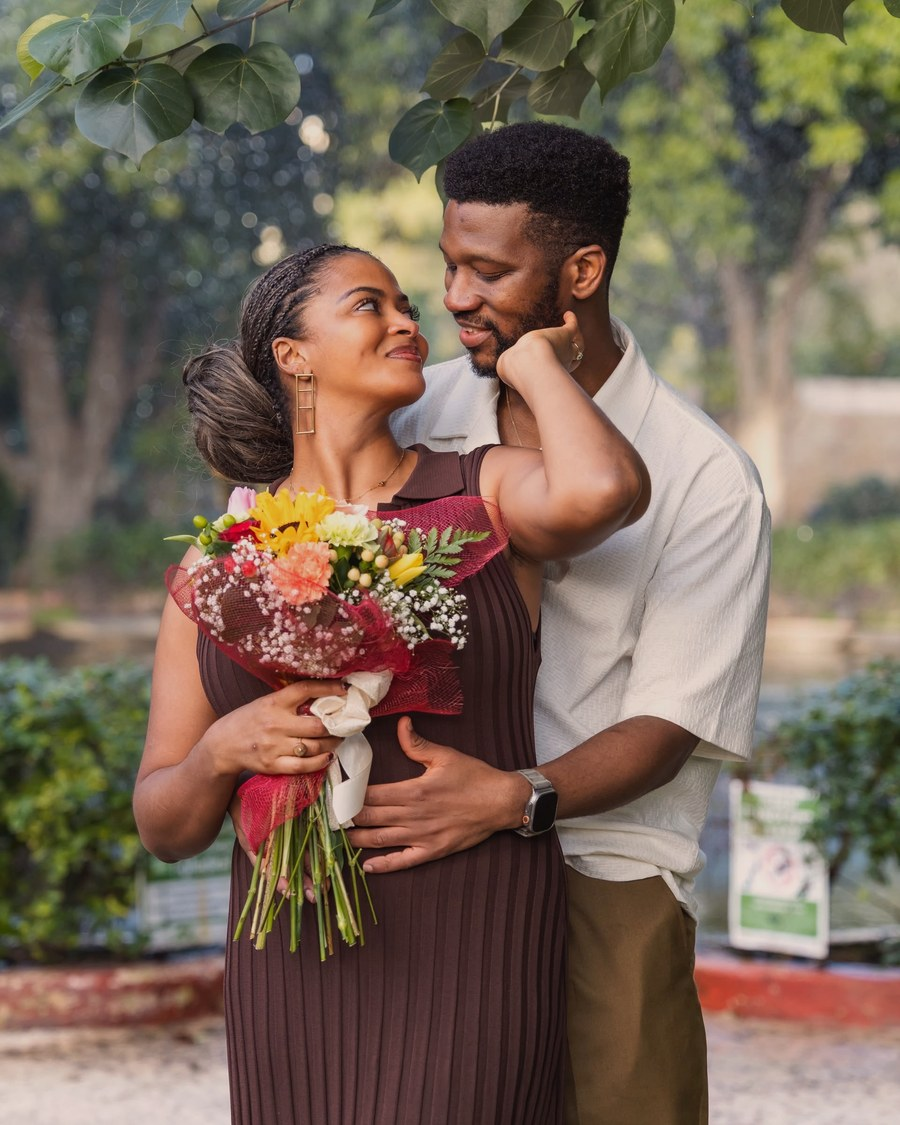
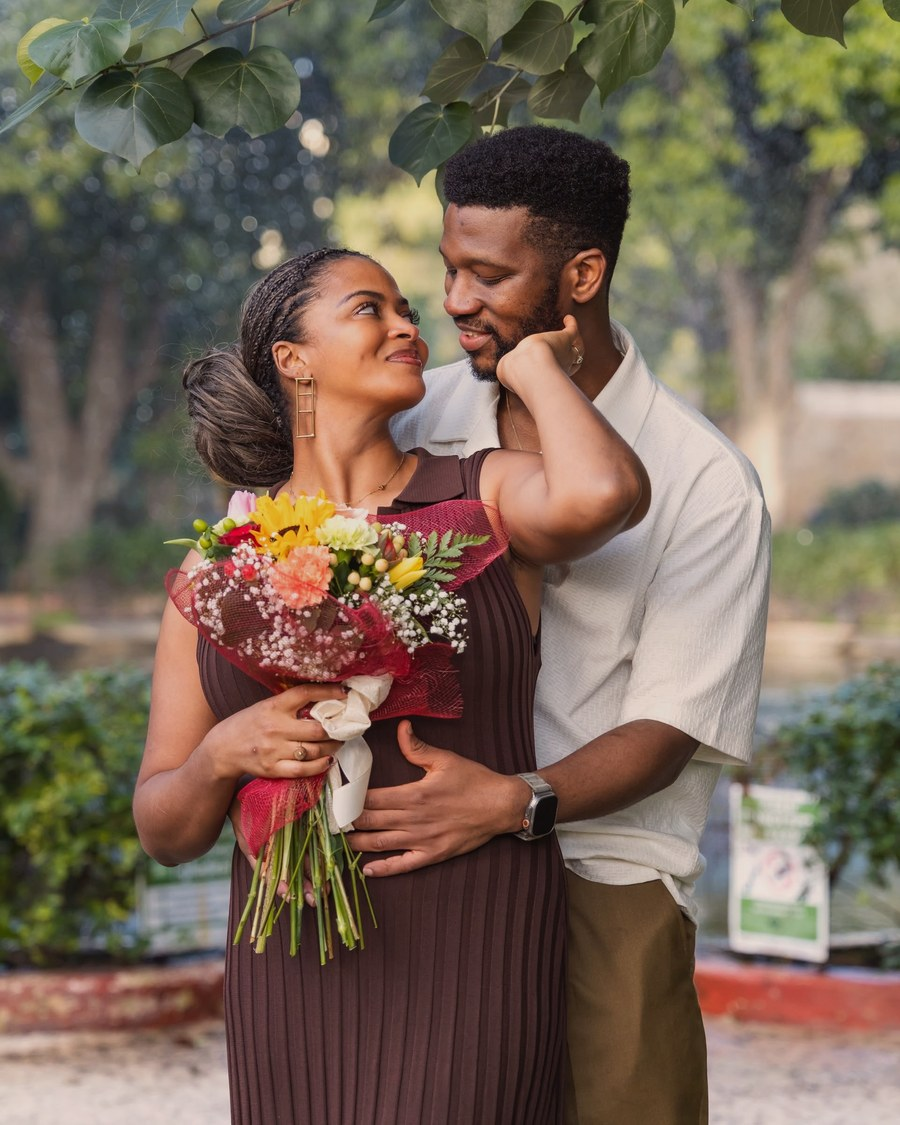
Simplify story to verse with proposal photo and end time
Replace the long story copy with Ecclesiastes 3:11 beside the
proposal portrait, keep the Hello Kelly and Hello Seun stamps,
and close the day timeline at 10:45 pm.

diff --git a/src/App.tsx b/src/App.tsx
@@ -65,7 +65,7 @@ export default function App() {
                 <figure className="story__frame">
                   <img
                     src={site.gatheringImage}
-                    alt="Kelly and Seun in a quiet embrace"
+                    alt="Kelly and Seun with a bouquet after the proposal"
                     width={1200}
                     height={1600}
                     loading="lazy"
@@ -79,7 +79,6 @@ export default function App() {
                 </figure>
               </div>
               <div className="story__copy">
-                <p className="section__eyebrow">Our story</p>
                 <div className="story__ornament" aria-hidden="true">
                   <span />
                   <em>{site.monogram}</em>
@@ -88,8 +87,7 @@ export default function App() {
                 <h2 className="section__title story__title" id="story-title">
                   {site.story.headline}
                 </h2>
-                <p className="story__pull">{site.story.pull}</p>
-                <p className="section__body">{site.story.body}</p>
+                <p className="story__reference">{site.story.reference}</p>
               </div>
             </div>
             <ol className="story-stamps" aria-label="Story milestones">

diff --git a/src/site.config.ts b/src/site.config.ts
@@ -23,9 +23,8 @@ export const site = {
   gatheringImage: "/gathering.jpg",
   venueImage: "/venue.jpg",
   story: {
-    headline: "Closer than the miles",
-    pull: "It took time. It was worth every bit.",
-    body: "A mutual friend put us in each other's path in November 2020. Even with distance between us, we kept finding our way to each other. It took time to become each other's favourite person. Then came the yes that made us one.",
+    headline: "He makes everything beautiful in His time",
+    reference: "Ecclesiastes 3:11",
     chapters: [
       {
         when: "2020",
@@ -49,7 +48,7 @@ export const site = {
         when: "Almost there",
         title: "Just before the proposal",
         image: "/story-before-proposal.jpg",
-        alt: "Kelly and Seun close together with a bouquet",
+        alt: "Kelly and Seun together with a bouquet after the proposal",
       },
       {
         when: "The yes",
@@ -75,6 +74,11 @@ export const site = {
       time: "6:30 pm",
       title: "Dinner & dancing",
       detail: "The table, the toasts, the floor.",
+    },
+    {
+      time: "10:45 pm",
+      title: "Evening close",
+      detail: "We wrap the night around here.",
     },
   ],
   moments: {

diff --git a/src/index.css b/src/index.css
@@ -473,17 +473,19 @@ textarea {
 }
 
 .story__title {
-  max-width: 14ch;
+  max-width: 16ch;
+  font-style: italic;
+  font-weight: 500;
+  line-height: 1.12;
 }
 
-.story__pull {
-  margin: 1.15rem 0 0;
-  max-width: 24ch;
-  font-family: var(--font-display);
-  font-style: italic;
-  font-size: clamp(1.45rem, 3vw, 1.9rem);
-  line-height: 1.25;
-  color: var(--burgundy-mid);
+.story__reference {
+  margin: 1rem 0 0;
+  font-size: 0.78rem;
+  font-weight: 600;
+  letter-spacing: 0.14em;
+  text-transform: uppercase;
+  color: var(--brass);
 }
 
 .story-stamps {
